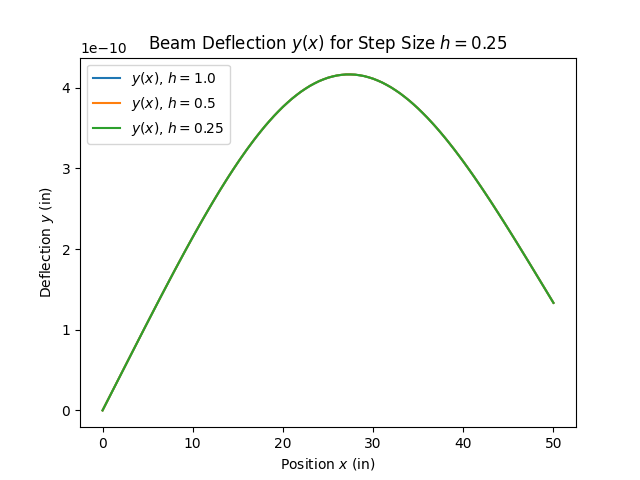
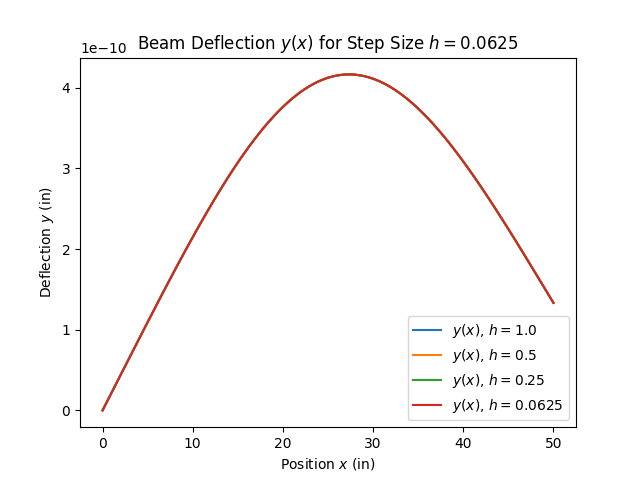
Completed code for question 2

diff --git a/lab_7/question2.py b/lab_7/question2.py
@@ -1,0 +1,197 @@
+# Evelyn Wilson
+# Lab 7, Question 2a and b
+# Due Date: November 14, 2025
+# Using the same file unlike normal because there are a lot of dependencies.
+import numpy as np
+import matplotlib.pyplot as plt
+
+# Constants
+L = 1.0           # Length (m)
+lambda_sq = 2.7   # m/kappa (m^-2)
+lambda_val = np.sqrt(lambda_sq)
+Tc = 37.0         # Core temp (°C)
+Ts = 32.0         # Surface temp (°C)
+Ta = Tc           # Arteriole temp (°C)
+
+# Build A matrix for FDM
+def build_matrix(N, dx, lambda_sq):
+
+    # Main diagonal value
+    diag_val = -(2.0 + lambda_sq * dx**2)
+    
+    # Create diagonals
+    main_diag = np.full(N, diag_val)
+    off_diag = np.ones(N - 1)
+    
+    # Assemble the matrix
+    A = np.diag(main_diag) + np.diag(off_diag, k=1) + np.diag(off_diag, k=-1)
+    return A
+
+def analytic_solution_2a(x, L, Ts, Tc, lambda_val):
+   
+    T_tilde_L = Ts - Tc
+    return T_tilde_L * np.sinh(lambda_val * x) / np.sinh(lambda_val * L)
+
+def solve_problem_2a():
+
+    # Boundary conditions for T-tilde
+    T_tilde_0 = Tc - Ta  # This is 0
+    T_tilde_L = Ts - Tc  # 
+
+    # N+1 values to test
+    segment_counts = np.array([5, 10, 20, 40, 80, 160])
+    errors = []
+    
+    # Store solution for N+1 = 20 for plotting
+    x_plot = None
+    T_tilde_plot = None
+    analytic_plot = None
+
+    for num_segments in segment_counts:
+        N = num_segments - 1  # Number of interior nodes
+        dx = L / num_segments # Node spacing
+        x_nodes = np.linspace(0, L, num_segments + 1)
+        # Build matrix A and vector b
+        A = build_matrix(N, dx, lambda_sq)
+        b = np.zeros(N)
+        # Apply boundary conditions to b vector
+        b[0] = -T_tilde_0   # b[0] = 0
+        b[-1] = -T_tilde_L
+        
+        # Solve using left division
+        T_tilde_interior = np.linalg.solve(A, b)
+        T_tilde_full = np.concatenate(([T_tilde_0], T_tilde_interior, [T_tilde_L]))
+        #Error analysis
+        T_analytic = analytic_solution_2a(x_nodes, L, Ts, Tc, lambda_val)
+        max_err = np.max(np.abs(T_tilde_full - T_analytic))
+        errors.append(max_err)
+        
+        if num_segments == 20:
+            x_plot = x_nodes
+            T_tilde_plot = T_tilde_full
+            analytic_plot = T_analytic
+
+    # Plotting 2a
+    
+    # T-tilde vs x
+    plt.figure()
+    plt.plot(x_plot, T_tilde_plot, 'bo', label='Numerical (N+1=20)', markersize=5)
+    plt.plot(x_plot, analytic_plot, 'r-', label='Analytic Solution')
+    plt.xlabel('$x$ (m)')
+    plt.ylabel('$\tilde{T} = T - T_a$ (°C)')
+    plt.title('Problem 2a: Steady-State Temperature (No Heating)')
+    plt.legend()
+    plt.grid(True)
+    
+    # Error vs N+1 (log-log)
+    plt.figure()
+    plt.loglog(segment_counts, errors, 'ko-', label='Max Error $\epsilon$')
+    
+    # Add reference line for second order convergence
+    # Error ~ C * (dx)^2 ~ C * (1/(N+1))^2
+    C = errors[0] * (segment_counts[0]**2)
+    plt.loglog(segment_counts, C / (segment_counts**2), 'r--', label='Slope = -2 (2nd Order)')
+    
+    plt.xlabel('Num Segments ($N+1$)')
+    plt.ylabel('Max Error $\epsilon$')
+    plt.title('Problem 2a: Error Analysis (Convergence)')
+    plt.legend()
+    plt.grid(True)
+
+# Problem 2b
+
+def problem_2b(num_segments, L, lambda_sq, Tc, Ts, Ta, sigma_E_kappa, gamma):
+    
+    # Boundary conditions for T-tilde
+    T_tilde_0 = Tc - Ta  # 0
+    T_tilde_L = Ts - Tc
+    
+    N = num_segments - 1
+    dx = L / num_segments
+    x_nodes = np.linspace(0, L, num_segments + 1)
+    x_interior = x_nodes[1:-1] # Interior node positions
+    
+    # Build A matrix
+    A = build_matrix(N, dx, lambda_sq)
+    
+    # Source term S(x) = (sigma*E0/kappa) * exp(-gamma*(L-x))
+    source_term = sigma_E_kappa * np.exp(-gamma * (L - x_interior))
+    
+    # Build b vector
+    b = -dx**2 * source_term
+
+    # Apply BCs
+    b[0] -= T_tilde_0
+    b[-1] -= T_tilde_L
+    
+    # solve using left division
+    T_tilde_interior = np.linalg.solve(A, b)
+    
+    # Assemble T-tilde and convert back to T
+    T_tilde_full = np.concatenate(([T_tilde_0], T_tilde_interior, [T_tilde_L]))
+    T_full = T_tilde_full + Ta
+    
+    return x_nodes, T_full
+    
+def solve_problem_2b():
+    
+    # constants for 2b
+    sigma_E_kappa = 100.0  # (sigma*E0 / kappa)
+    gamma = 1.0 / L        # (L^-1)
+
+    # N+1 values to test
+    segment_counts = np.array([5, 10, 20, 40, 80, 160])
+    errors = []
+    
+    # Store solution for N+1 = 20 for plotting
+    x_plot = None
+    T_plot = None
+    
+    # Error Analysis (vs. High-Fidelity Solution)
+    x_truth, T_truth = problem_2b(640, L, lambda_sq, Tc, Ts, Ta, sigma_E_kappa, gamma)
+
+    for num_segments in segment_counts:
+        x_n, T_n = problem_2b(num_segments, L, lambda_sq, Tc, Ts, Ta, sigma_E_kappa, gamma)
+
+        # Interpolate the "truth" solution onto the coarser grid (x_n)
+        T_truth_interp = np.interp(x_n, x_truth, T_truth)
+        
+        # Calculate max error
+        max_err = np.max(np.abs(T_n - T_truth_interp))
+        errors.append(max_err)
+        
+        # Save the N+1=20 case for plotting
+        if num_segments == 20:
+            x_plot = x_n
+            T_plot = T_n
+
+    # Plotting 2b
+    
+    # T vs x
+    plt.figure()
+    plt.plot(x_plot, T_plot, 'b-', label='Numerical $T(x)$ (N+1=20)')
+    plt.axhline(y=Ta, color='r', linestyle='--', label=f'Arteriole Temp $T_a = {Ta:.1f}$°C')
+    plt.xlabel('$x$ (m)')
+    plt.ylabel('Tissue Temperature $T$ (°C)')
+    plt.title('Problem 2b: Steady-State Temperature (With Heating)')
+    plt.legend()
+    plt.grid(True)
+    
+    # Error vs N+1 (log-log)
+    plt.figure()
+    plt.loglog(segment_counts, errors, 'ko-', label='Max Error $\epsilon$ (vs. truth)')
+    
+    # Add second-order reference line to compare convergence.
+    C = errors[0] * (segment_counts[0]**2)
+    plt.loglog(segment_counts, C / (segment_counts**2), 'r--', label='Slope = -2 (2nd Order)')
+    
+    plt.xlabel('Number of Segments ($N+1$)')
+    plt.ylabel('Max Error $\epsilon$')
+    plt.title('Problem 2b: Error Analysis (Convergence)')
+    plt.legend()
+    plt.grid(True)
+
+solve_problem_2a()
+solve_problem_2b()
+
+plt.show()

diff --git a/lab_7/question1.py b/lab_7/question1.py
@@ -113,7 +113,7 @@ def secant_method(f, u0, u1, h, tol=1e-8, max_iter=50):
 u_guess_0 = -0.1
 u_guess_1 = -0.05
 
-step_sizes_to_test = [1.0, 0.5, 0.25]
+step_sizes_to_test = [1.0, 0.5, 0.25, 0.0625]
 
 print("Solving Problem 1: Nonlinear Beam Deflection")
 
